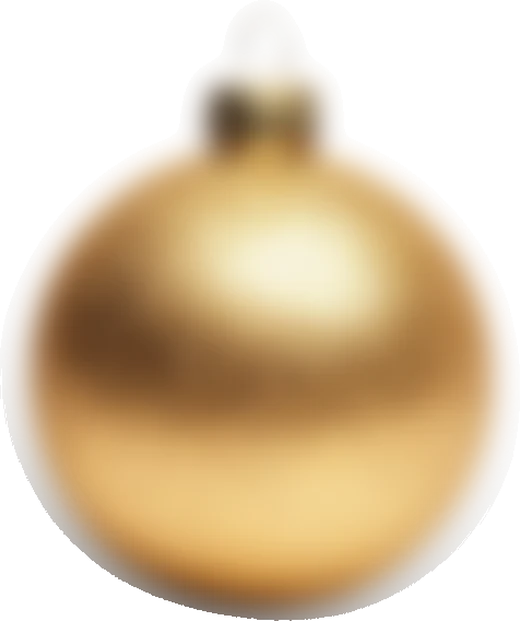
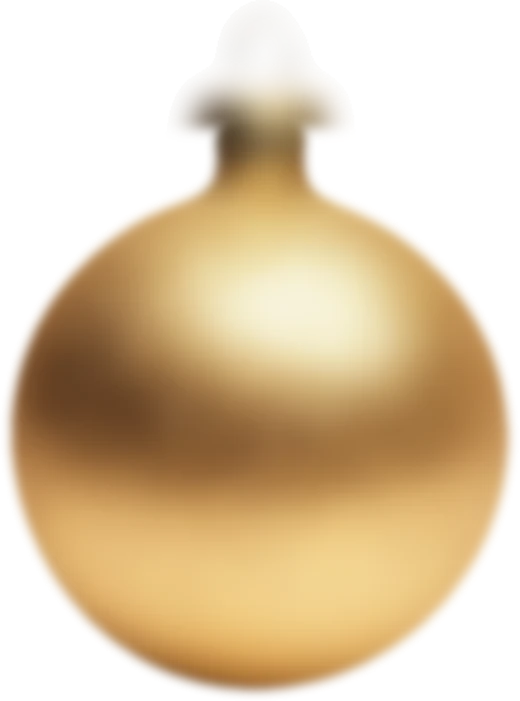
Экран 7: шары плавают на половину экрана, края мягкие
Кромка снимков была снята на белом и давала серую кайму на голубом фоне —
съели её внутрь и размыли, петельку сохранили.

diff --git a/v2.html b/v2.html
@@ -2015,9 +2015,11 @@ html.zs-lock .nav{margin-right:var(--zs-sbw,0px)}
      качания и СКОРОСТЬ. Больше секунд = плывёт медленнее. Два разных срока
      нужны, чтобы шары не качались строем: глаз сразу замечает синхрон. */
   --kr-ball-d:clamp(96px,12.5vw,196px);   /* диаметр красного */
-  --kr-ball-sw:clamp(9px,1.5vw,22px);     /* размах: столько вверх и вниз */
-  --kr-ball-dur-1:7s;                     /* скорость красного */
-  --kr-ball-dur-2:9.5s;                   /* скорость золотого */
+  --kr-ball-sw:25vh;                      /* размах: столько вверх и вниз,
+                                             то есть полный ход — половина
+                                             высоты экрана (07.09.2026) */
+  --kr-ball-dur-1:16s;                    /* скорость красного */
+  --kr-ball-dur-2:20s;                    /* скорость золотого */
 
   position:relative; overflow:hidden;     /* краями экрана шары и обрезает */
   color:#333; padding:calc(60 * var(--u)) 0 calc(70 * var(--u));
